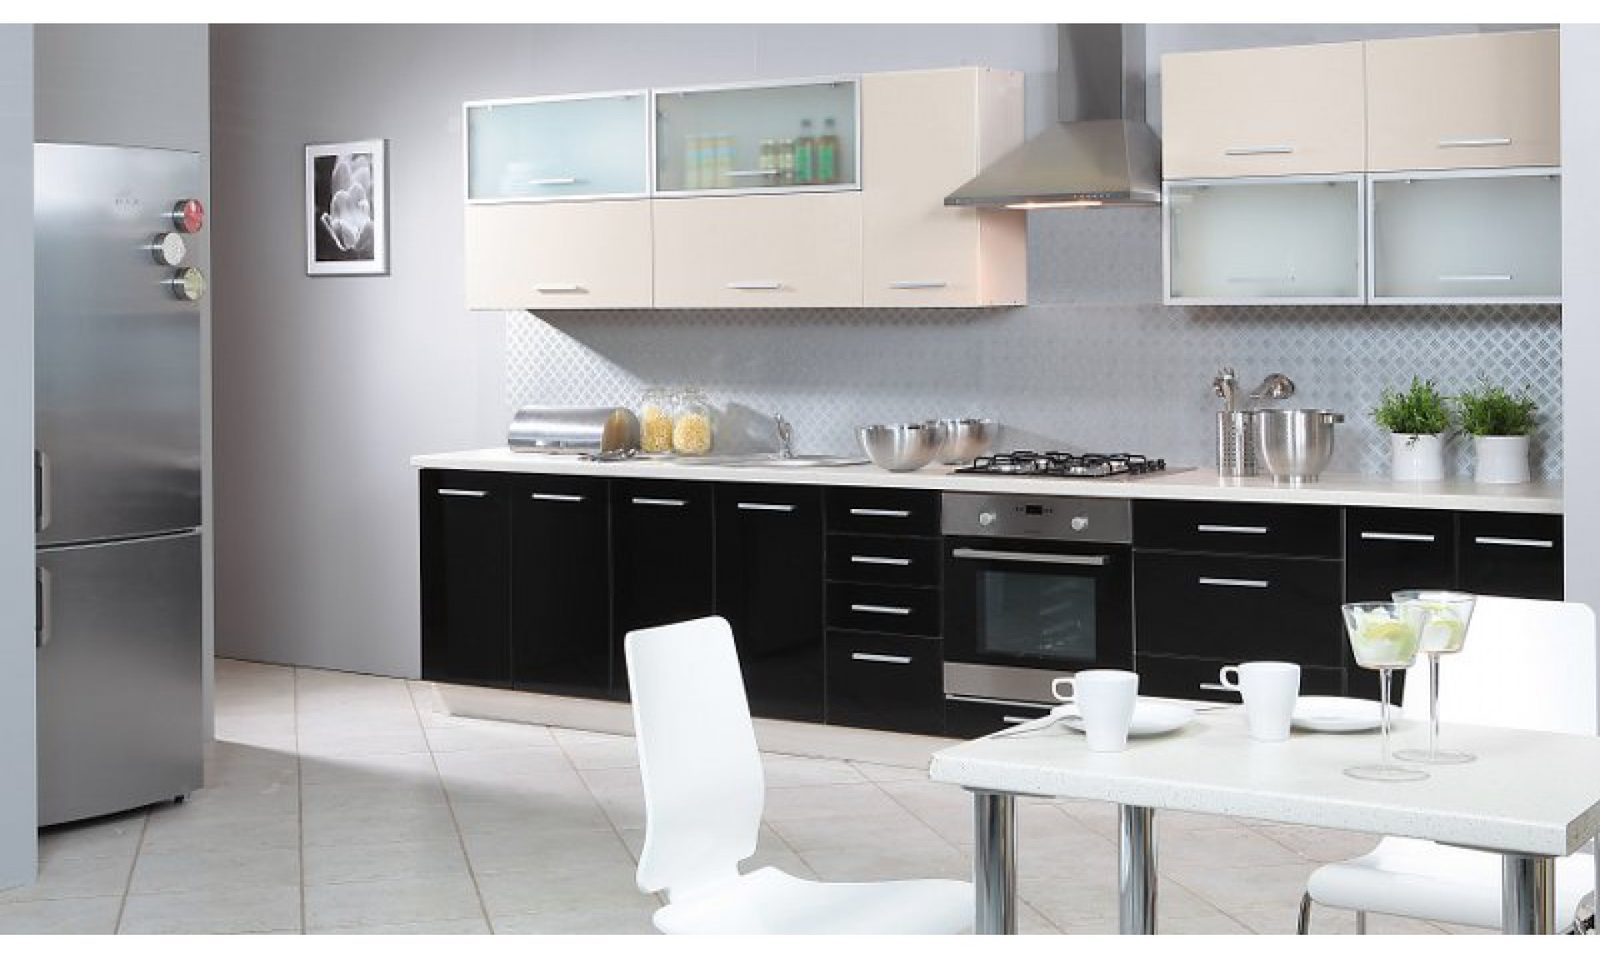
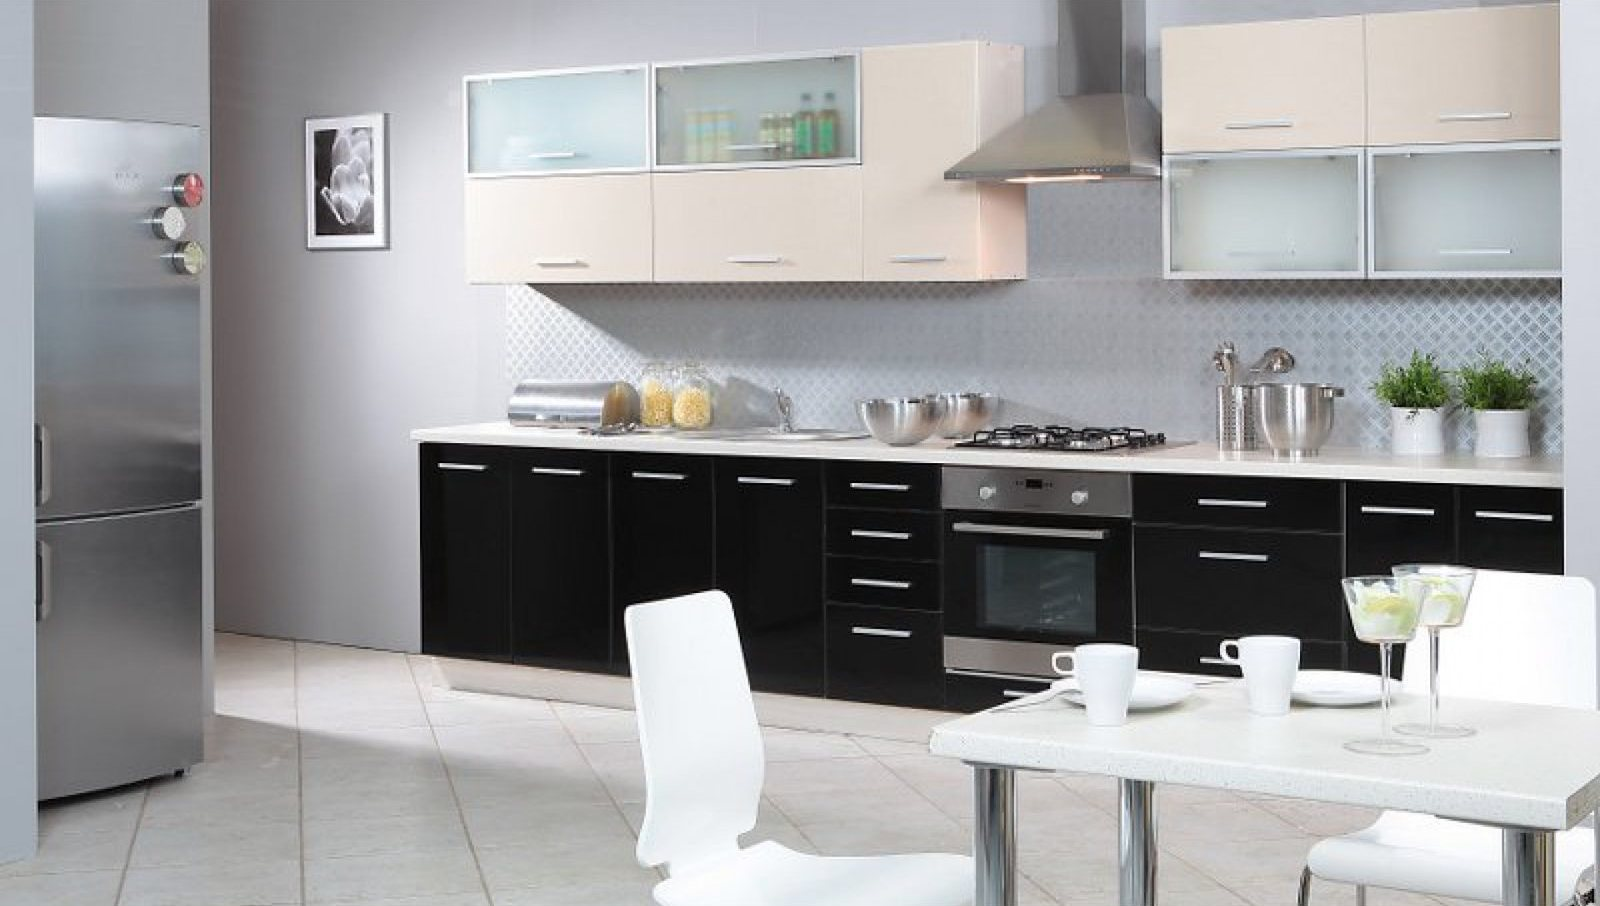
Works: the kitchen photo fills its frame on desktop (no empty band above the caption); crop the white bands out of the photo

diff --git a/index.html b/index.html
@@ -259,6 +259,9 @@ h1,h2,h3{margin:0; font-weight:800}
 @media (min-width:1024px){
   .works-grid{grid-template-columns:minmax(0,4fr) minmax(0,8fr)}
   .works-side{position:sticky; top:calc(var(--head) + 32px); align-self:start}
+  /* one photo sheet beside a taller list: the photo fills the frame instead of leaving an empty band above the caption */
+  .sheet--photo .sheet-img{flex:1 1 auto; min-height:360px}
+  .sheet--photo .sheet-img img{position:absolute; inset:0; height:100%; aspect-ratio:auto}
 }
 
 /* ============ О компании ============ */
@@ -563,7 +566,7 @@ h1,h2,h3{margin:0; font-weight:800}
       <div class="sheets">
         <figure class="sheet sheet--photo rv" id="lapa-1">
           <button class="sheet-img" type="button" data-lightbox data-i18n-attr="aria-label:sheet.open" aria-label="Открыть фото крупнее">
-            <img src="img/virtuve.jpg" width="1600" height="959" data-i18n-attr="alt:sheet1.alt" alt="Кухня: чёрные глянцевые нижние шкафы, светлые верхние шкафы, часть с матовым стеклом">
+            <img src="img/virtuve.jpg" width="1600" height="906" data-i18n-attr="alt:sheet1.alt" alt="Кухня: чёрные глянцевые нижние шкафы, светлые верхние шкафы, часть с матовым стеклом">
             <span class="zoom" aria-hidden="true"><svg viewBox="0 0 24 24" fill="none" stroke="currentColor" stroke-width="2"><path d="M4 9V4h5M20 9V4h-5M4 15v5h5M20 15v5h-5"/></svg></span>
           </button>
           <figcaption class="sheet-cap"><span class="n">01</span><span class="t" data-i18n="cat.1">Кухни</span></figcaption>
@@ -628,7 +631,7 @@ h1,h2,h3{margin:0; font-weight:800}
     <span data-i18n="lb.close">Закрыть</span>
     <svg viewBox="0 0 24 24" width="18" height="18" fill="none" stroke="currentColor" stroke-width="2" aria-hidden="true"><path d="M5 5l14 14M19 5 5 19"/></svg>
   </button>
-  <img src="img/virtuve.jpg" width="1600" height="959" data-i18n-attr="alt:sheet1.alt" alt="Кухня: чёрные глянцевые нижние шкафы, светлые верхние шкафы, часть с матовым стеклом">
+  <img src="img/virtuve.jpg" width="1600" height="906" data-i18n-attr="alt:sheet1.alt" alt="Кухня: чёрные глянцевые нижние шкафы, светлые верхние шкафы, часть с матовым стеклом">
 </dialog>
 
 <script>
